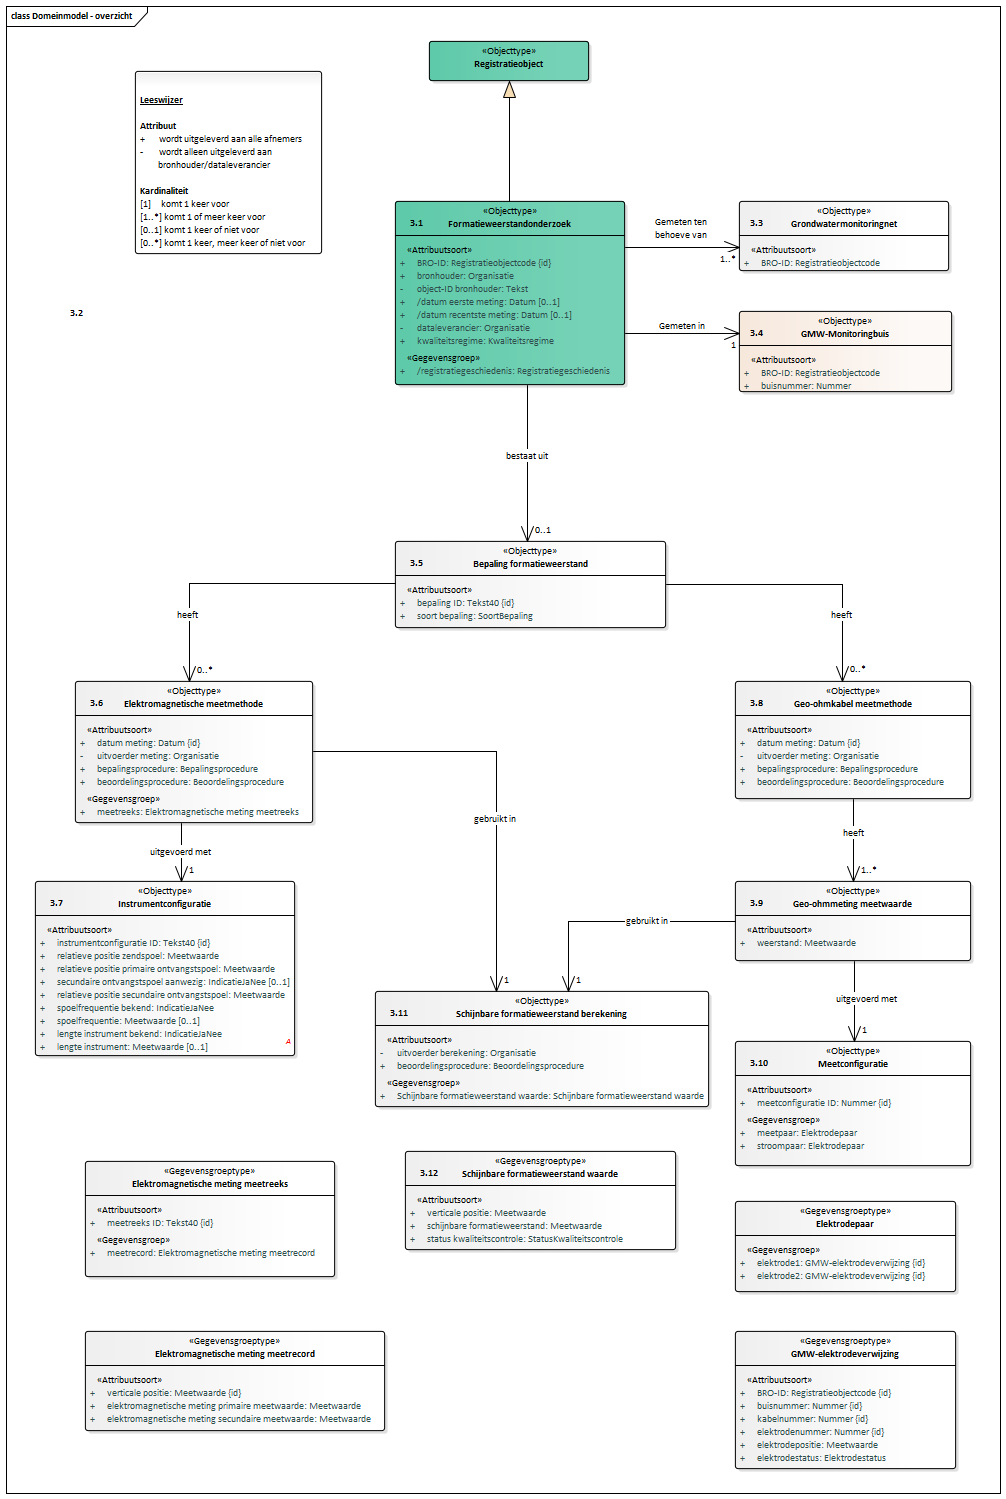
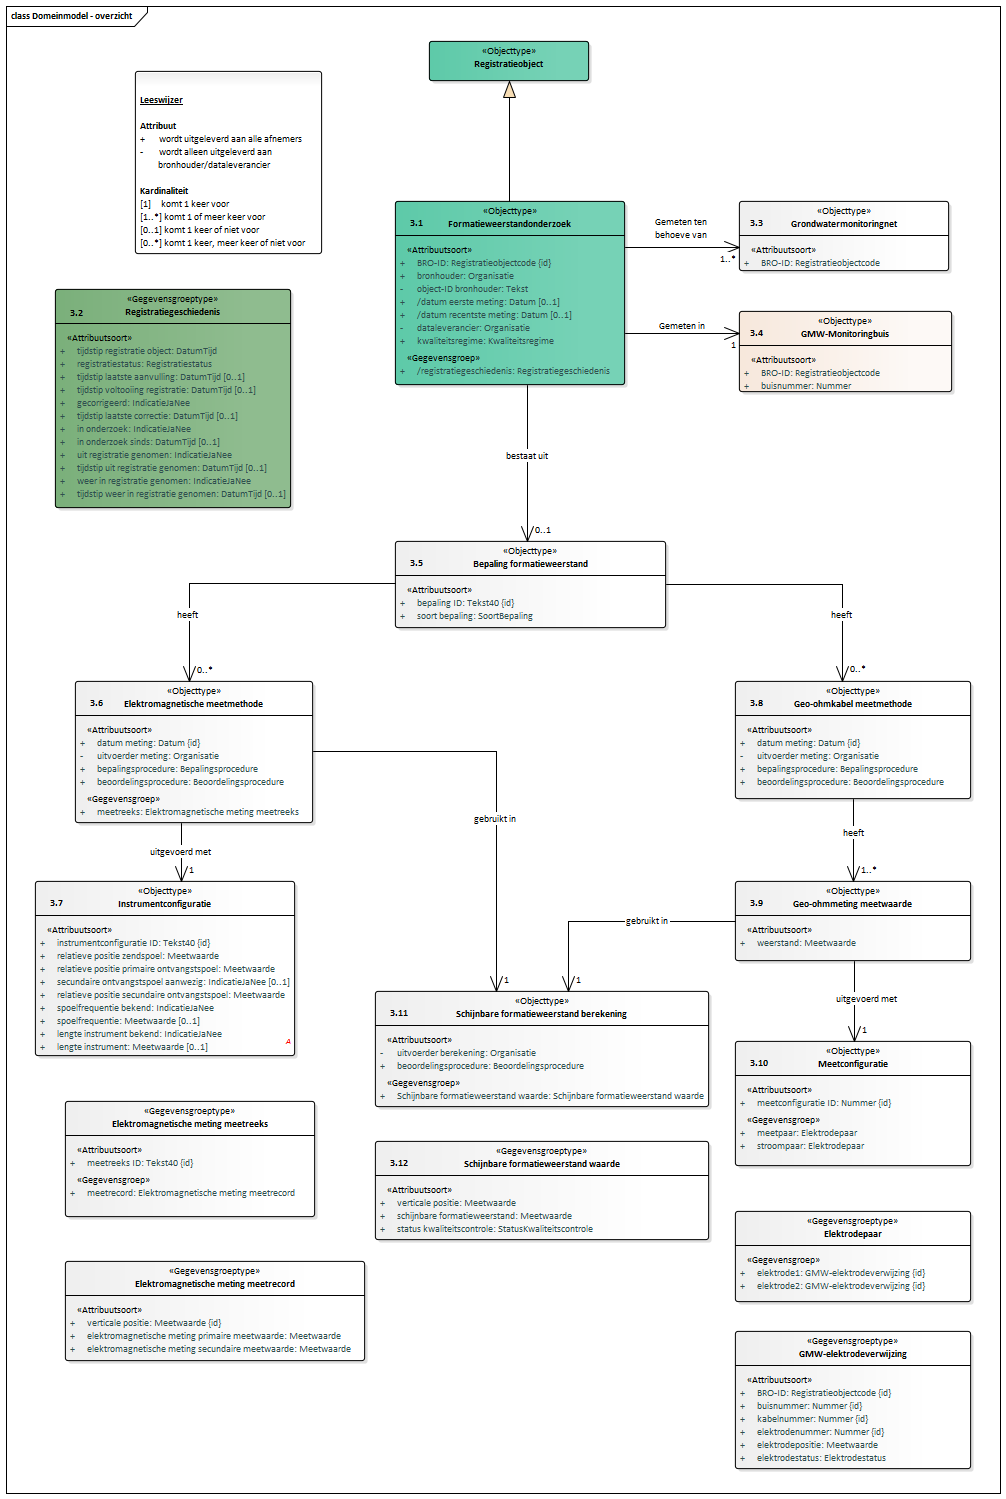
Conceptualmodel-FormatieweerstandonderzoekFRDconceptueel-0.8-1-20210125-20210129-092155

diff --git a/data/FRD-cat.msword.html b/data/FRD-cat.msword.html
@@ -15,7 +15,7 @@
    <body>
       <p>Conceptual model/Formatieweerstand onderzoek (FRD) conceptueel/20210125</p>
       <p>Imvertor: 1.63.0</p>
-      <p>Model release: Conceptualmodel-FormatieweerstandonderzoekFRDconceptueel-0.92-1-20210125-20210128-153152</p>
+      <p>Model release: Conceptualmodel-FormatieweerstandonderzoekFRDconceptueel-0.8-1-20210125-20210129-092155</p>
       <hr>
       <section>
          <h1>Artikel 1 Definitie van registratieobject, entiteiten en attributen</h1>
@@ -64,7 +64,7 @@
          <section>
             <h2>Het domeinmodel</h2>
             <section id="">
-               <div class="imageinfo overview"><img src="Images/EAID_0B3602DB_544E_4f6f_A6E2_DDE4A8A6790E.png" usemap="#imagemap-EAID_0B3602DB_544E_4f6f_A6E2_DDE4A8A6790E" alt="Diagram &#xA;"><map name="imagemap-EAID_0B3602DB_544E_4f6f_A6E2_DDE4A8A6790E"><area shape="rect" alt="Schijnbare formatieweerstand waarde" coords="405,1151,676,1250" href="#graph_EAID_1C615D07_2360_4c93_8371_F9173FA1C85B"><area shape="rect" alt="Schijnbare formatieweerstand berekening" coords="375,991,709,1107" href="#graph_EAID_6F6C1FC0_77AE_4d31_8862_B7B443C2D0C8"><area shape="rect" alt="Elektromagnetische meetmethode" coords="75,681,313,823" href="#graph_EAID_CA2EEC38_0161_4d1b_968C_E63B2F5C1547"><area shape="rect" alt="Elektrodepaar" coords="735,1201,956,1292" href="#graph_EAID_F78E7F84_132E_4390_A72A_D32759DEBED4"><area shape="rect" alt="Geo-ohmkabel meetmethode" coords="735,681,971,799" href="#graph_EAID_DB9DF92C_83D8_4d54_8B6A_6693052EF4B1"><area shape="rect" alt="Elektromagnetische meting meetreeks" coords="85,1161,335,1277" href="#graph_EAID_33450642_9C84_4c07_AFE3_FB734FBA8DBB"><area shape="rect" alt="Geo-ohmmeting meetwaarde" coords="735,881,971,961" href="#graph_EAID_0E73504D_4081_4ea3_A7AA_1FB27FBC227B"><area shape="rect" alt="Instrumentconfiguratie" coords="35,881,295,1056" href="#graph_EAID_C4102470_4315_4bda_9B2A_59EDEA9E2834"><area shape="rect" alt="Meetconfiguratie" coords="735,1041,971,1166" href="#graph_EAID_04636D26_BFC4_4838_AC91_21BB2BF62212"><area shape="rect" alt="Elektromagnetische meting meetrecord" coords="85,1331,385,1431" href="#graph_EAID_17DB4860_7353_467e_89CD_5018D22D8A43"><area shape="rect" alt="GMW-elektrodeverwijzing" coords="735,1331,956,1469" href="#graph_EAID_EFFFB8A0_3810_43f9_83F1_FC48EFD1FE4E"><area shape="rect" alt="Grondwatermonitoringnet" coords="739,201,949,271" href="#graph_EAID_984D3056_0D28_4de8_B5D9_592AFE3F568F"><area shape="rect" alt="GMW-Monitoringbuis" coords="739,311,952,392" href="#graph_EAID_C5CA1164_130B_439f_819B_25C2507866E2"><area shape="rect" alt="Bepaling formatieweerstand" coords="395,541,666,628" href="#graph_EAID_D3B48B39_96CC_4f01_91F1_BDF0B725CD8A"><area shape="rect" alt="Formatieweerstandonderzoek" coords="395,201,625,385" href="#graph_EAID_F03C2FC8_5705_46dc_927D_01B7EC61C2F2"><area shape="rect" alt="Registratieobject" coords="429,41,589,81" href="#graph_EAID_5706F7F6_075B_46d6_A47D_7DCF1EEB21B7"></map><p><b>Domeinmodel</b></p>
+               <div class="imageinfo overview"><img src="Images/EAID_0B3602DB_544E_4f6f_A6E2_DDE4A8A6790E.png" usemap="#imagemap-EAID_0B3602DB_544E_4f6f_A6E2_DDE4A8A6790E" alt="Diagram &#xA;"><map name="imagemap-EAID_0B3602DB_544E_4f6f_A6E2_DDE4A8A6790E"><area shape="rect" alt="Schijnbare formatieweerstand waarde" coords="375,1141,709,1240" href="#graph_EAID_1C615D07_2360_4c93_8371_F9173FA1C85B"><area shape="rect" alt="Schijnbare formatieweerstand berekening" coords="375,991,709,1107" href="#graph_EAID_6F6C1FC0_77AE_4d31_8862_B7B443C2D0C8"><area shape="rect" alt="Elektromagnetische meetmethode" coords="75,681,313,823" href="#graph_EAID_CA2EEC38_0161_4d1b_968C_E63B2F5C1547"><area shape="rect" alt="Elektrodepaar" coords="735,1211,971,1302" href="#graph_EAID_F78E7F84_132E_4390_A72A_D32759DEBED4"><area shape="rect" alt="Geo-ohmkabel meetmethode" coords="735,681,971,799" href="#graph_EAID_DB9DF92C_83D8_4d54_8B6A_6693052EF4B1"><area shape="rect" alt="Elektromagnetische meting meetreeks" coords="65,1101,315,1217" href="#graph_EAID_33450642_9C84_4c07_AFE3_FB734FBA8DBB"><area shape="rect" alt="Geo-ohmmeting meetwaarde" coords="735,881,971,961" href="#graph_EAID_0E73504D_4081_4ea3_A7AA_1FB27FBC227B"><area shape="rect" alt="Instrumentconfiguratie" coords="35,881,295,1056" href="#graph_EAID_C4102470_4315_4bda_9B2A_59EDEA9E2834"><area shape="rect" alt="Meetconfiguratie" coords="735,1041,971,1166" href="#graph_EAID_04636D26_BFC4_4838_AC91_21BB2BF62212"><area shape="rect" alt="Elektromagnetische meting meetrecord" coords="65,1261,365,1361" href="#graph_EAID_17DB4860_7353_467e_89CD_5018D22D8A43"><area shape="rect" alt="GMW-elektrodeverwijzing" coords="735,1331,971,1469" href="#graph_EAID_EFFFB8A0_3810_43f9_83F1_FC48EFD1FE4E"><area shape="rect" alt="Grondwatermonitoringnet" coords="739,201,949,271" href="#graph_EAID_984D3056_0D28_4de8_B5D9_592AFE3F568F"><area shape="rect" alt="GMW-Monitoringbuis" coords="739,311,952,392" href="#graph_EAID_C5CA1164_130B_439f_819B_25C2507866E2"><area shape="rect" alt="Bepaling formatieweerstand" coords="395,541,666,628" href="#graph_EAID_D3B48B39_96CC_4f01_91F1_BDF0B725CD8A"><area shape="rect" alt="Registratiegeschiedenis" coords="55,289,291,508" href="#graph_EAID_0451B041_6862_420f_9E12_9829516BAF81"><area shape="rect" alt="Formatieweerstandonderzoek" coords="395,201,625,385" href="#graph_EAID_F03C2FC8_5705_46dc_927D_01B7EC61C2F2"><area shape="rect" alt="Registratieobject" coords="429,41,589,81" href="#graph_EAID_5706F7F6_075B_46d6_A47D_7DCF1EEB21B7"></map><p><b>Domeinmodel</b></p>
                </div>
             </section>
          </section>
@@ -434,7 +434,7 @@
                            </tr>
                         </tbody>
                      </table>
-                     </section><a class="anchor" id="detail_d35080e2119"></a><section id="detail_d35080e2119">
+                     </section><a class="anchor" id="detail_d35082e2121"></a><section id="detail_d35082e2121">
                      <h4>  registratiegeschiedenis</h4>
                      <table style="width: 100%;">
                         <colgroup style="width: 30%;"></colgroup>
@@ -1767,7 +1767,7 @@
                            </tr>
                         </tbody>
                      </table>
-                     </section><a class="anchor" id="detail_d35080e6799"></a><section id="detail_d35080e6799">
+                     </section><a class="anchor" id="detail_d35082e6801"></a><section id="detail_d35082e6801">
                      <h4>  meetreeks</h4>
                      <table style="width: 100%;">
                         <colgroup style="width: 30%;"></colgroup>
@@ -2499,7 +2499,7 @@
                            </tr>
                         </tbody>
                      </table>
-                     </section><a class="anchor" id="detail_d35080e9350"></a><section id="detail_d35080e9350">
+                     </section><a class="anchor" id="detail_d35082e9352"></a><section id="detail_d35082e9352">
                      <h4>  meetrecord</h4>
                      <table style="width: 100%;">
                         <colgroup style="width: 30%;"></colgroup>
@@ -3217,7 +3217,7 @@
                            </tr>
                         </tbody>
                      </table>
-                     </section><a class="anchor" id="detail_d35080e11924"></a><section id="detail_d35080e11924">
+                     </section><a class="anchor" id="detail_d35082e11926"></a><section id="detail_d35082e11926">
                      <h4>  meetpaar</h4>
                      <table style="width: 100%;">
                         <colgroup style="width: 30%;"></colgroup>
@@ -3257,7 +3257,7 @@
                            </tr>
                         </tbody>
                      </table>
-                  </section><a class="anchor" id="detail_d35080e12138"></a><section id="detail_d35080e12138">
+                  </section><a class="anchor" id="detail_d35082e12140"></a><section id="detail_d35082e12140">
                      <h4>  stroompaar</h4>
                      <table style="width: 100%;">
                         <colgroup style="width: 30%;"></colgroup>
@@ -3326,7 +3326,7 @@
                               </td>
                         </tr>
                      </tbody>
-                  </table><a class="anchor" id="detail_d35080e12510"></a><section id="detail_d35080e12510">
+                  </table><a class="anchor" id="detail_d35082e12512"></a><section id="detail_d35082e12512">
                      <h4>  elektrode1</h4>
                      <table style="width: 100%;">
                         <colgroup style="width: 30%;"></colgroup>
@@ -3366,7 +3366,7 @@
                            </tr>
                         </tbody>
                      </table>
-                  </section><a class="anchor" id="detail_d35080e12725"></a><section id="detail_d35080e12725">
+                  </section><a class="anchor" id="detail_d35082e12727"></a><section id="detail_d35082e12727">
                      <h4>  elektrode2</h4>
                      <table style="width: 100%;">
                         <colgroup style="width: 30%;"></colgroup>
@@ -3838,7 +3838,7 @@
                            </tr>
                         </tbody>
                      </table>
-                     </section><a class="anchor" id="detail_d35080e14478"></a><section id="detail_d35080e14478">
+                     </section><a class="anchor" id="detail_d35082e14480"></a><section id="detail_d35082e14480">
                      <h4>  Schijnbare formatieweerstand waarde</h4>
                      <table style="width: 100%;">
                         <colgroup style="width: 30%;"></colgroup>

diff --git a/data/FRD-cat.respec.html b/data/FRD-cat.respec.html
@@ -42,7 +42,7 @@
       </section>
    <section id="">
       <h2>Het domeinmodel   </h2>
-      <div class="imageinfo overview"><img src="data/Images/EAID_0B3602DB_544E_4f6f_A6E2_DDE4A8A6790E.png" usemap="#imagemap-EAID_0B3602DB_544E_4f6f_A6E2_DDE4A8A6790E" alt="Diagram &#xA;"><map name="imagemap-EAID_0B3602DB_544E_4f6f_A6E2_DDE4A8A6790E"><area shape="rect" alt="Schijnbare formatieweerstand waarde" coords="405,1151,676,1250" href="#graph_EAID_1C615D07_2360_4c93_8371_F9173FA1C85B"><area shape="rect" alt="Schijnbare formatieweerstand berekening" coords="375,991,709,1107" href="#graph_EAID_6F6C1FC0_77AE_4d31_8862_B7B443C2D0C8"><area shape="rect" alt="Elektromagnetische meetmethode" coords="75,681,313,823" href="#graph_EAID_CA2EEC38_0161_4d1b_968C_E63B2F5C1547"><area shape="rect" alt="Elektrodepaar" coords="735,1201,956,1292" href="#graph_EAID_F78E7F84_132E_4390_A72A_D32759DEBED4"><area shape="rect" alt="Geo-ohmkabel meetmethode" coords="735,681,971,799" href="#graph_EAID_DB9DF92C_83D8_4d54_8B6A_6693052EF4B1"><area shape="rect" alt="Elektromagnetische meting meetreeks" coords="85,1161,335,1277" href="#graph_EAID_33450642_9C84_4c07_AFE3_FB734FBA8DBB"><area shape="rect" alt="Geo-ohmmeting meetwaarde" coords="735,881,971,961" href="#graph_EAID_0E73504D_4081_4ea3_A7AA_1FB27FBC227B"><area shape="rect" alt="Instrumentconfiguratie" coords="35,881,295,1056" href="#graph_EAID_C4102470_4315_4bda_9B2A_59EDEA9E2834"><area shape="rect" alt="Meetconfiguratie" coords="735,1041,971,1166" href="#graph_EAID_04636D26_BFC4_4838_AC91_21BB2BF62212"><area shape="rect" alt="Elektromagnetische meting meetrecord" coords="85,1331,385,1431" href="#graph_EAID_17DB4860_7353_467e_89CD_5018D22D8A43"><area shape="rect" alt="GMW-elektrodeverwijzing" coords="735,1331,956,1469" href="#graph_EAID_EFFFB8A0_3810_43f9_83F1_FC48EFD1FE4E"><area shape="rect" alt="Grondwatermonitoringnet" coords="739,201,949,271" href="#graph_EAID_984D3056_0D28_4de8_B5D9_592AFE3F568F"><area shape="rect" alt="GMW-Monitoringbuis" coords="739,311,952,392" href="#graph_EAID_C5CA1164_130B_439f_819B_25C2507866E2"><area shape="rect" alt="Bepaling formatieweerstand" coords="395,541,666,628" href="#graph_EAID_D3B48B39_96CC_4f01_91F1_BDF0B725CD8A"><area shape="rect" alt="Formatieweerstandonderzoek" coords="395,201,625,385" href="#graph_EAID_F03C2FC8_5705_46dc_927D_01B7EC61C2F2"><area shape="rect" alt="Registratieobject" coords="429,41,589,81" href="#graph_EAID_5706F7F6_075B_46d6_A47D_7DCF1EEB21B7"></map><p><b>Domeinmodel</b></p>
+      <div class="imageinfo overview"><img src="data/Images/EAID_0B3602DB_544E_4f6f_A6E2_DDE4A8A6790E.png" usemap="#imagemap-EAID_0B3602DB_544E_4f6f_A6E2_DDE4A8A6790E" alt="Diagram &#xA;"><map name="imagemap-EAID_0B3602DB_544E_4f6f_A6E2_DDE4A8A6790E"><area shape="rect" alt="Schijnbare formatieweerstand waarde" coords="375,1141,709,1240" href="#graph_EAID_1C615D07_2360_4c93_8371_F9173FA1C85B"><area shape="rect" alt="Schijnbare formatieweerstand berekening" coords="375,991,709,1107" href="#graph_EAID_6F6C1FC0_77AE_4d31_8862_B7B443C2D0C8"><area shape="rect" alt="Elektromagnetische meetmethode" coords="75,681,313,823" href="#graph_EAID_CA2EEC38_0161_4d1b_968C_E63B2F5C1547"><area shape="rect" alt="Elektrodepaar" coords="735,1211,971,1302" href="#graph_EAID_F78E7F84_132E_4390_A72A_D32759DEBED4"><area shape="rect" alt="Geo-ohmkabel meetmethode" coords="735,681,971,799" href="#graph_EAID_DB9DF92C_83D8_4d54_8B6A_6693052EF4B1"><area shape="rect" alt="Elektromagnetische meting meetreeks" coords="65,1101,315,1217" href="#graph_EAID_33450642_9C84_4c07_AFE3_FB734FBA8DBB"><area shape="rect" alt="Geo-ohmmeting meetwaarde" coords="735,881,971,961" href="#graph_EAID_0E73504D_4081_4ea3_A7AA_1FB27FBC227B"><area shape="rect" alt="Instrumentconfiguratie" coords="35,881,295,1056" href="#graph_EAID_C4102470_4315_4bda_9B2A_59EDEA9E2834"><area shape="rect" alt="Meetconfiguratie" coords="735,1041,971,1166" href="#graph_EAID_04636D26_BFC4_4838_AC91_21BB2BF62212"><area shape="rect" alt="Elektromagnetische meting meetrecord" coords="65,1261,365,1361" href="#graph_EAID_17DB4860_7353_467e_89CD_5018D22D8A43"><area shape="rect" alt="GMW-elektrodeverwijzing" coords="735,1331,971,1469" href="#graph_EAID_EFFFB8A0_3810_43f9_83F1_FC48EFD1FE4E"><area shape="rect" alt="Grondwatermonitoringnet" coords="739,201,949,271" href="#graph_EAID_984D3056_0D28_4de8_B5D9_592AFE3F568F"><area shape="rect" alt="GMW-Monitoringbuis" coords="739,311,952,392" href="#graph_EAID_C5CA1164_130B_439f_819B_25C2507866E2"><area shape="rect" alt="Bepaling formatieweerstand" coords="395,541,666,628" href="#graph_EAID_D3B48B39_96CC_4f01_91F1_BDF0B725CD8A"><area shape="rect" alt="Registratiegeschiedenis" coords="55,289,291,508" href="#graph_EAID_0451B041_6862_420f_9E12_9829516BAF81"><area shape="rect" alt="Formatieweerstandonderzoek" coords="395,201,625,385" href="#graph_EAID_F03C2FC8_5705_46dc_927D_01B7EC61C2F2"><area shape="rect" alt="Registratieobject" coords="429,41,589,81" href="#graph_EAID_5706F7F6_075B_46d6_A47D_7DCF1EEB21B7"></map><p><b>Domeinmodel</b></p>
       </div>
    </section>
    <section id="">
@@ -410,7 +410,7 @@
                   </tr>
                </tbody>
             </table>
-            </section><a class="anchor" id="detail_d35080e2119"></a><section id="detail_d35080e2119">
+            </section><a class="anchor" id="detail_d35082e2121"></a><section id="detail_d35082e2121">
             <h4>  registratiegeschiedenis</h4>
             <table style="width: 100%;">
                <colgroup style="width: 30%;"></colgroup>
@@ -1743,7 +1743,7 @@
                   </tr>
                </tbody>
             </table>
-            </section><a class="anchor" id="detail_d35080e6799"></a><section id="detail_d35080e6799">
+            </section><a class="anchor" id="detail_d35082e6801"></a><section id="detail_d35082e6801">
             <h4>  meetreeks</h4>
             <table style="width: 100%;">
                <colgroup style="width: 30%;"></colgroup>
@@ -2475,7 +2475,7 @@
                   </tr>
                </tbody>
             </table>
-            </section><a class="anchor" id="detail_d35080e9350"></a><section id="detail_d35080e9350">
+            </section><a class="anchor" id="detail_d35082e9352"></a><section id="detail_d35082e9352">
             <h4>  meetrecord</h4>
             <table style="width: 100%;">
                <colgroup style="width: 30%;"></colgroup>
@@ -3193,7 +3193,7 @@
                   </tr>
                </tbody>
             </table>
-            </section><a class="anchor" id="detail_d35080e11924"></a><section id="detail_d35080e11924">
+            </section><a class="anchor" id="detail_d35082e11926"></a><section id="detail_d35082e11926">
             <h4>  meetpaar</h4>
             <table style="width: 100%;">
                <colgroup style="width: 30%;"></colgroup>
@@ -3233,7 +3233,7 @@
                   </tr>
                </tbody>
             </table>
-         </section><a class="anchor" id="detail_d35080e12138"></a><section id="detail_d35080e12138">
+         </section><a class="anchor" id="detail_d35082e12140"></a><section id="detail_d35082e12140">
             <h4>  stroompaar</h4>
             <table style="width: 100%;">
                <colgroup style="width: 30%;"></colgroup>
@@ -3302,7 +3302,7 @@
                      </td>
                </tr>
             </tbody>
-         </table><a class="anchor" id="detail_d35080e12510"></a><section id="detail_d35080e12510">
+         </table><a class="anchor" id="detail_d35082e12512"></a><section id="detail_d35082e12512">
             <h4>  elektrode1</h4>
             <table style="width: 100%;">
                <colgroup style="width: 30%;"></colgroup>
@@ -3342,7 +3342,7 @@
                   </tr>
                </tbody>
             </table>
-         </section><a class="anchor" id="detail_d35080e12725"></a><section id="detail_d35080e12725">
+         </section><a class="anchor" id="detail_d35082e12727"></a><section id="detail_d35082e12727">
             <h4>  elektrode2</h4>
             <table style="width: 100%;">
                <colgroup style="width: 30%;"></colgroup>
@@ -3814,7 +3814,7 @@
                   </tr>
                </tbody>
             </table>
-            </section><a class="anchor" id="detail_d35080e14478"></a><section id="detail_d35080e14478">
+            </section><a class="anchor" id="detail_d35082e14480"></a><section id="detail_d35082e14480">
             <h4>  Schijnbare formatieweerstand waarde</h4>
             <table style="width: 100%;">
                <colgroup style="width: 30%;"></colgroup>
